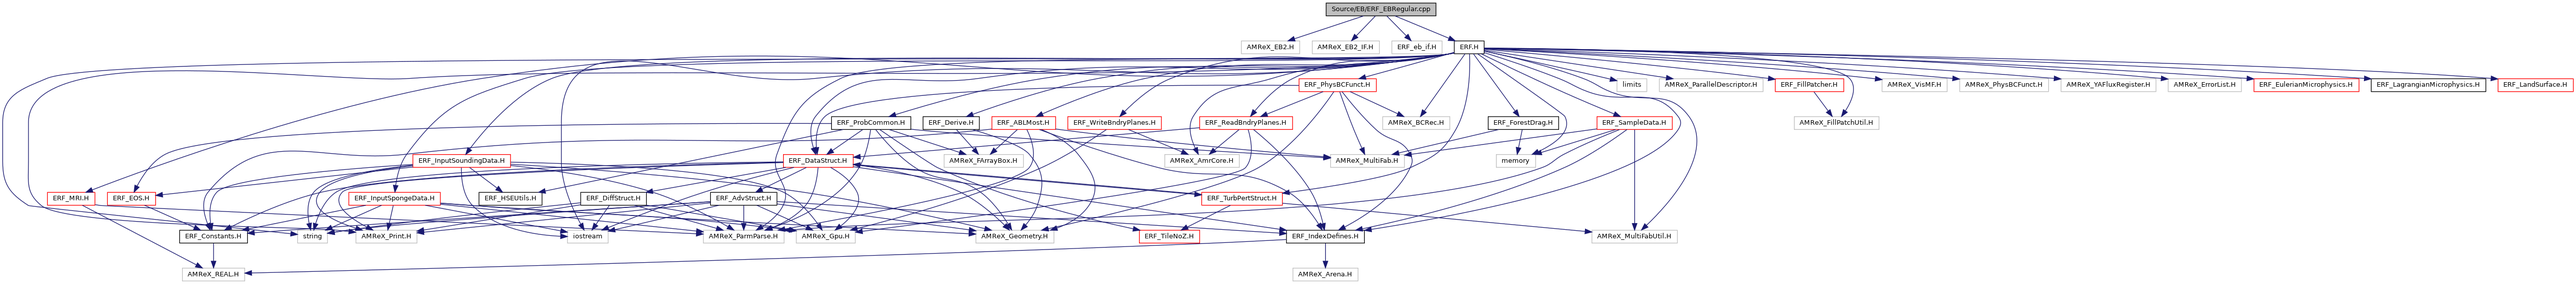
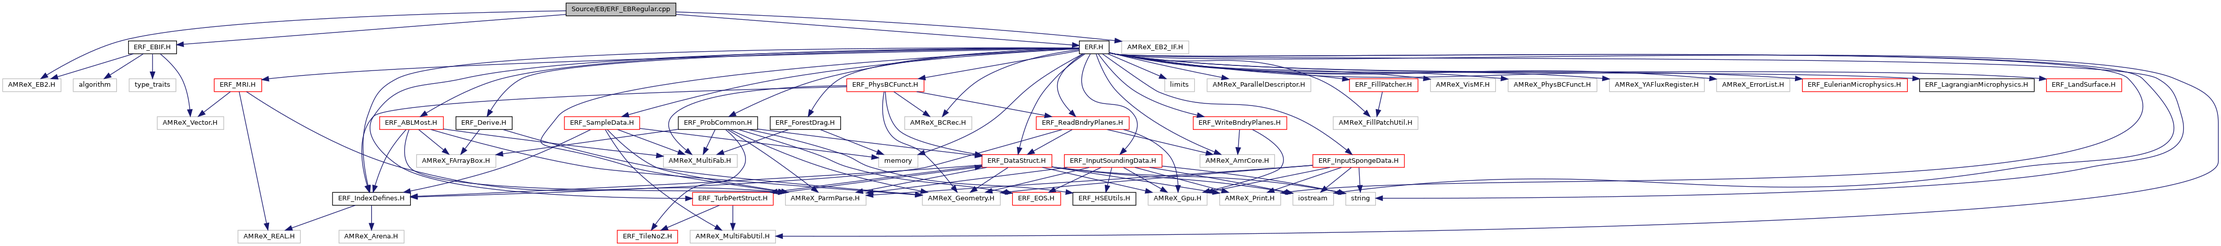
Deployed from erf-model/ERF

diff --git a/ERF__EBRegular_8cpp.html b/ERF__EBRegular_8cpp.html
@@ -88,63 +88,63 @@ $(document).ready(function(){initNavTree('ERF__EBRegular_8cpp.html',''); initRes
 <div class="contents">
 <div class="textblock"><code>#include &lt;AMReX_EB2.H&gt;</code><br />
 <code>#include &lt;AMReX_EB2_IF.H&gt;</code><br />
-<code>#include &lt;ERF_eb_if.H&gt;</code><br />
+<code>#include &lt;<a class="el" href="ERF__EBIF_8H_source.html">ERF_EBIF.H</a>&gt;</code><br />
 <code>#include &lt;<a class="el" href="ERF_8H_source.html">ERF.H</a>&gt;</code><br />
 </div><div class="textblock"><div class="dynheader">
 Include dependency graph for ERF_EBRegular.cpp:</div>
 <div class="dyncontent">
 <div class="center"><img src="ERF__EBRegular_8cpp__incl.png" border="0" usemap="#aSource_2EB_2ERF__EBRegular_8cpp" alt=""/></div>
 <map name="aSource_2EB_2ERF__EBRegular_8cpp" id="aSource_2EB_2ERF__EBRegular_8cpp">
-<area shape="rect" title=" " alt="" coords="2608,5,2824,32"/>
-<area shape="rect" title=" " alt="" coords="2441,80,2556,107"/>
-<area shape="rect" title=" " alt="" coords="2581,80,2713,107"/>
-<area shape="rect" title=" " alt="" coords="2737,80,2836,107"/>
-<area shape="rect" href="ERF_8H.html" title=" " alt="" coords="2860,80,2919,107"/>
-<area shape="rect" title=" " alt="" coords="585,453,644,480"/>
-<area shape="rect" title=" " alt="" coords="3180,155,3239,181"/>
-<area shape="rect" title=" " alt="" coords="2943,304,3020,331"/>
-<area shape="rect" title=" " alt="" coords="2291,304,2437,331"/>
-<area shape="rect" title=" " alt="" coords="2719,229,2851,256"/>
-<area shape="rect" title=" " alt="" coords="700,453,820,480"/>
-<area shape="rect" title=" " alt="" coords="3263,155,3467,181"/>
-<area shape="rect" title=" " alt="" coords="1383,453,1542,480"/>
-<area shape="rect" title=" " alt="" coords="3131,453,3299,480"/>
-<area shape="rect" title=" " alt="" coords="3529,229,3695,256"/>
-<area shape="rect" title=" " alt="" coords="3701,155,3829,181"/>
-<area shape="rect" title=" " alt="" coords="3854,155,4029,181"/>
-<area shape="rect" title=" " alt="" coords="4053,155,4240,181"/>
-<area shape="rect" title=" " alt="" coords="4264,155,4408,181"/>
-<area shape="rect" href="ERF__ProbCommon_8H.html" title=" " alt="" coords="1635,229,1791,256"/>
-<area shape="rect" href="ERF__DataStruct_8H.html" title=" " alt="" coords="1541,304,1678,331"/>
-<area shape="rect" title=" " alt="" coords="1116,453,1196,480"/>
-<area shape="rect" href="ERF__IndexDefines_8H.html" title=" " alt="" coords="2530,453,2683,480"/>
-<area shape="rect" href="ERF__TurbPertStruct_8H.html" title=" " alt="" coords="2363,379,2522,405"/>
-<area shape="rect" href="ERF__InputSoundingData_8H.html" title=" " alt="" coords="812,304,1004,331"/>
-<area shape="rect" href="ERF__InputSpongeData_8H.html" title=" " alt="" coords="686,379,866,405"/>
-<area shape="rect" href="ERF__ABLMost_8H.html" title=" " alt="" coords="1951,229,2076,256"/>
-<area shape="rect" href="ERF__Derive_8H.html" title=" " alt="" coords="1815,229,1926,256"/>
-<area shape="rect" href="ERF__ReadBndryPlanes_8H.html" title=" " alt="" coords="2359,229,2542,256"/>
-<area shape="rect" href="ERF__WriteBndryPlanes_8H.html" title=" " alt="" coords="2100,229,2284,256"/>
-<area shape="rect" href="ERF__MRI_8H.html" title=" " alt="" coords="93,379,187,405"/>
-<area shape="rect" href="ERF__PhysBCFunct_8H.html" title=" " alt="" coords="2555,155,2707,181"/>
-<area shape="rect" href="ERF__FillPatcher_8H.html" title=" " alt="" coords="3491,155,3626,181"/>
-<area shape="rect" href="ERF__SampleData_8H.html" title=" " alt="" coords="3141,229,3289,256"/>
-<area shape="rect" href="ERF__ForestDrag_8H.html" title=" " alt="" coords="2927,229,3065,256"/>
-<area shape="rect" href="ERF__EulerianMicrophysics_8H.html" title="Contains the Eulerian microphysics class." alt="" coords="4433,155,4639,181"/>
-<area shape="rect" href="ERF__LagrangianMicrophysics_8H.html" title="Contains the Lagrangian microphysics class." alt="" coords="4663,155,4889,181"/>
-<area shape="rect" href="ERF__LandSurface_8H.html" title=" " alt="" coords="4913,155,5061,181"/>
-<area shape="rect" title=" " alt="" coords="1919,453,2073,480"/>
-<area shape="rect" title=" " alt="" coords="1857,304,2013,331"/>
-<area shape="rect" title=" " alt="" coords="2617,304,2762,331"/>
-<area shape="rect" href="ERF__TileNoZ_8H.html" title=" " alt="" coords="2241,453,2359,480"/>
-<area shape="rect" href="ERF__EOS_8H.html" title=" " alt="" coords="211,379,306,405"/>
-<area shape="rect" href="ERF__HSEUtils_8H.html" title=" " alt="" coords="942,379,1066,405"/>
-<area shape="rect" title=" " alt="" coords="1566,453,1682,480"/>
-<area shape="rect" href="ERF__Constants_8H.html" title=" " alt="" coords="353,453,487,480"/>
-<area shape="rect" href="ERF__AdvStruct_8H.html" title=" " alt="" coords="1397,379,1528,405"/>
-<area shape="rect" href="ERF__DiffStruct_8H.html" title=" " alt="" coords="1142,379,1271,405"/>
-<area shape="rect" title=" " alt="" coords="359,528,481,555"/>
-<area shape="rect" title=" " alt="" coords="2543,528,2671,555"/>
+<area shape="rect" title=" " alt="" coords="1113,5,1329,32"/>
+<area shape="rect" title=" " alt="" coords="5,155,120,181"/>
+<area shape="rect" title=" " alt="" coords="2206,80,2338,107"/>
+<area shape="rect" href="ERF__EBIF_8H.html" title=" " alt="" coords="253,80,347,107"/>
+<area shape="rect" href="ERF_8H.html" title=" " alt="" coords="2123,80,2181,107"/>
+<area shape="rect" title=" " alt="" coords="309,229,440,256"/>
+<area shape="rect" title=" " alt="" coords="144,155,229,181"/>
+<area shape="rect" title=" " alt="" coords="254,155,346,181"/>
+<area shape="rect" title=" " alt="" coords="2647,379,2705,405"/>
+<area shape="rect" title=" " alt="" coords="2291,155,2349,181"/>
+<area shape="rect" title=" " alt="" coords="1728,304,1805,331"/>
+<area shape="rect" title=" " alt="" coords="2360,304,2507,331"/>
+<area shape="rect" title=" " alt="" coords="1779,229,1911,256"/>
+<area shape="rect" title=" " alt="" coords="2399,379,2519,405"/>
+<area shape="rect" title=" " alt="" coords="2374,155,2578,181"/>
+<area shape="rect" title=" " alt="" coords="1545,379,1703,405"/>
+<area shape="rect" title=" " alt="" coords="1357,453,1525,480"/>
+<area shape="rect" title=" " alt="" coords="2622,229,2789,256"/>
+<area shape="rect" title=" " alt="" coords="2813,155,2941,181"/>
+<area shape="rect" title=" " alt="" coords="2966,155,3141,181"/>
+<area shape="rect" title=" " alt="" coords="3165,155,3352,181"/>
+<area shape="rect" title=" " alt="" coords="3376,155,3520,181"/>
+<area shape="rect" href="ERF__ProbCommon_8H.html" title=" " alt="" coords="1334,229,1490,256"/>
+<area shape="rect" href="ERF__DataStruct_8H.html" title=" " alt="" coords="1931,304,2069,331"/>
+<area shape="rect" title=" " alt="" coords="2543,379,2623,405"/>
+<area shape="rect" href="ERF__IndexDefines_8H.html" title=" " alt="" coords="654,379,807,405"/>
+<area shape="rect" href="ERF__TurbPertStruct_8H.html" title=" " alt="" coords="1362,379,1521,405"/>
+<area shape="rect" href="ERF__InputSoundingData_8H.html" title=" " alt="" coords="2093,304,2285,331"/>
+<area shape="rect" href="ERF__InputSpongeData_8H.html" title=" " alt="" coords="2582,304,2762,331"/>
+<area shape="rect" href="ERF__ABLMost_8H.html" title=" " alt="" coords="747,229,872,256"/>
+<area shape="rect" href="ERF__Derive_8H.html" title=" " alt="" coords="897,229,1007,256"/>
+<area shape="rect" href="ERF__ReadBndryPlanes_8H.html" title=" " alt="" coords="2038,229,2221,256"/>
+<area shape="rect" href="ERF__WriteBndryPlanes_8H.html" title=" " alt="" coords="2347,229,2531,256"/>
+<area shape="rect" href="ERF__MRI_8H.html" title=" " alt="" coords="421,155,515,181"/>
+<area shape="rect" href="ERF__PhysBCFunct_8H.html" title=" " alt="" coords="1665,155,1817,181"/>
+<area shape="rect" href="ERF__FillPatcher_8H.html" title=" " alt="" coords="2654,155,2789,181"/>
+<area shape="rect" href="ERF__SampleData_8H.html" title=" " alt="" coords="1110,229,1258,256"/>
+<area shape="rect" href="ERF__ForestDrag_8H.html" title=" " alt="" coords="1515,229,1653,256"/>
+<area shape="rect" href="ERF__EulerianMicrophysics_8H.html" title="Contains the Eulerian microphysics class." alt="" coords="3545,155,3751,181"/>
+<area shape="rect" href="ERF__LagrangianMicrophysics_8H.html" title="Contains the Lagrangian microphysics class." alt="" coords="3775,155,4001,181"/>
+<area shape="rect" href="ERF__LandSurface_8H.html" title=" " alt="" coords="4025,155,4173,181"/>
+<area shape="rect" title=" " alt="" coords="1814,379,1967,405"/>
+<area shape="rect" title=" " alt="" coords="819,304,975,331"/>
+<area shape="rect" title=" " alt="" coords="1305,304,1450,331"/>
+<area shape="rect" href="ERF__TileNoZ_8H.html" title=" " alt="" coords="1214,453,1333,480"/>
+<area shape="rect" href="ERF__EOS_8H.html" title=" " alt="" coords="1991,379,2086,405"/>
+<area shape="rect" href="ERF__HSEUtils_8H.html" title=" " alt="" coords="2110,379,2234,405"/>
+<area shape="rect" title=" " alt="" coords="2258,379,2374,405"/>
+<area shape="rect" title=" " alt="" coords="468,453,591,480"/>
+<area shape="rect" title=" " alt="" coords="667,453,795,480"/>
 </map>
 </div>
 </div></div><!-- contents -->

diff --git a/ERF__EBIF_8H.html b/ERF__EBIF_8H.html
@@ -104,6 +104,15 @@ Include dependency graph for ERF_EBIF.H:</div>
 <area shape="rect" title=" " alt="" coords="409,80,501,107"/>
 </map>
 </div>
+</div><div class="textblock"><div class="dynheader">
+This graph shows which files directly or indirectly include this file:</div>
+<div class="dyncontent">
+<div class="center"><img src="ERF__EBIF_8H__dep__incl.png" border="0" usemap="#aSource_2EB_2ERF__EBIF_8Hdep" alt=""/></div>
+<map name="aSource_2EB_2ERF__EBIF_8Hdep" id="aSource_2EB_2ERF__EBIF_8Hdep">
+<area shape="rect" title=" " alt="" coords="31,5,195,32"/>
+<area shape="rect" href="ERF__EBRegular_8cpp.html" title=" " alt="" coords="5,80,221,107"/>
+</map>
+</div>
 </div>
 <p><a href="ERF__EBIF_8H_source.html">Go to the source code of this file.</a></p>
 <table class="memberdecls">
